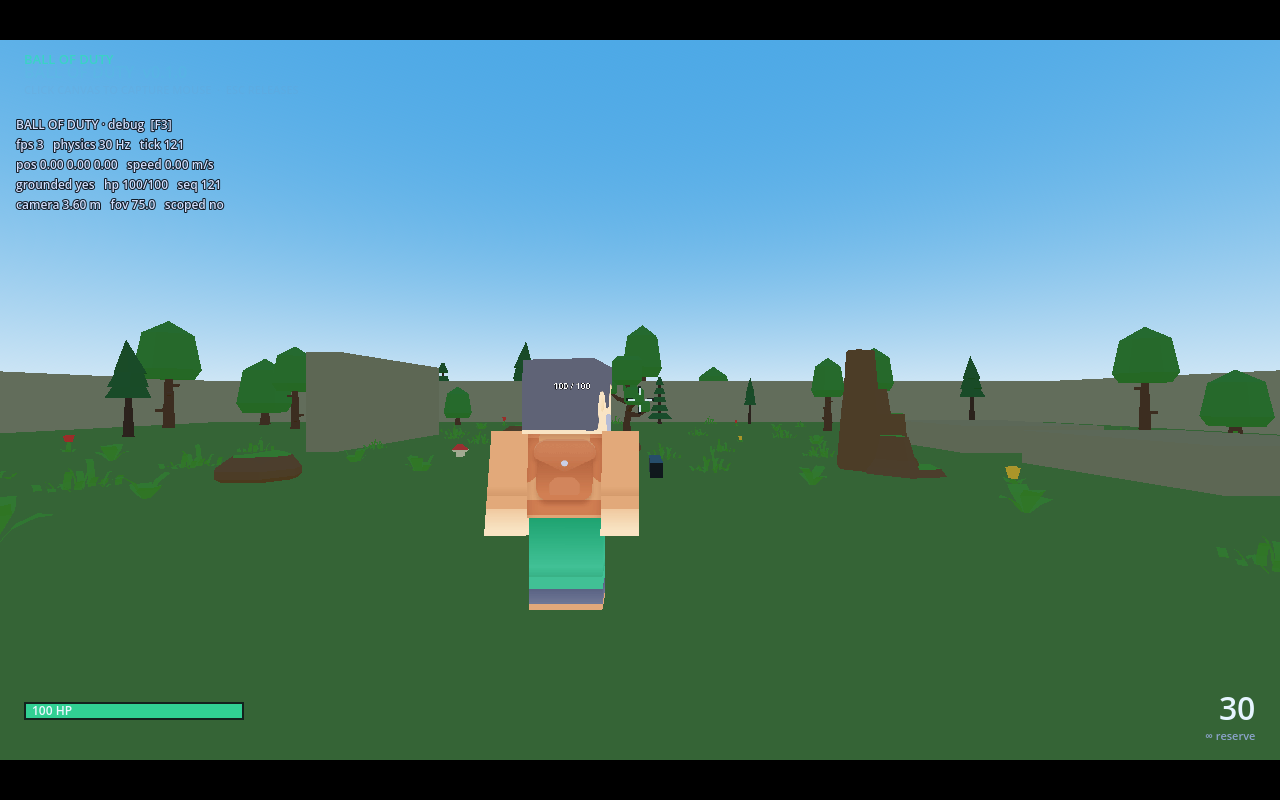
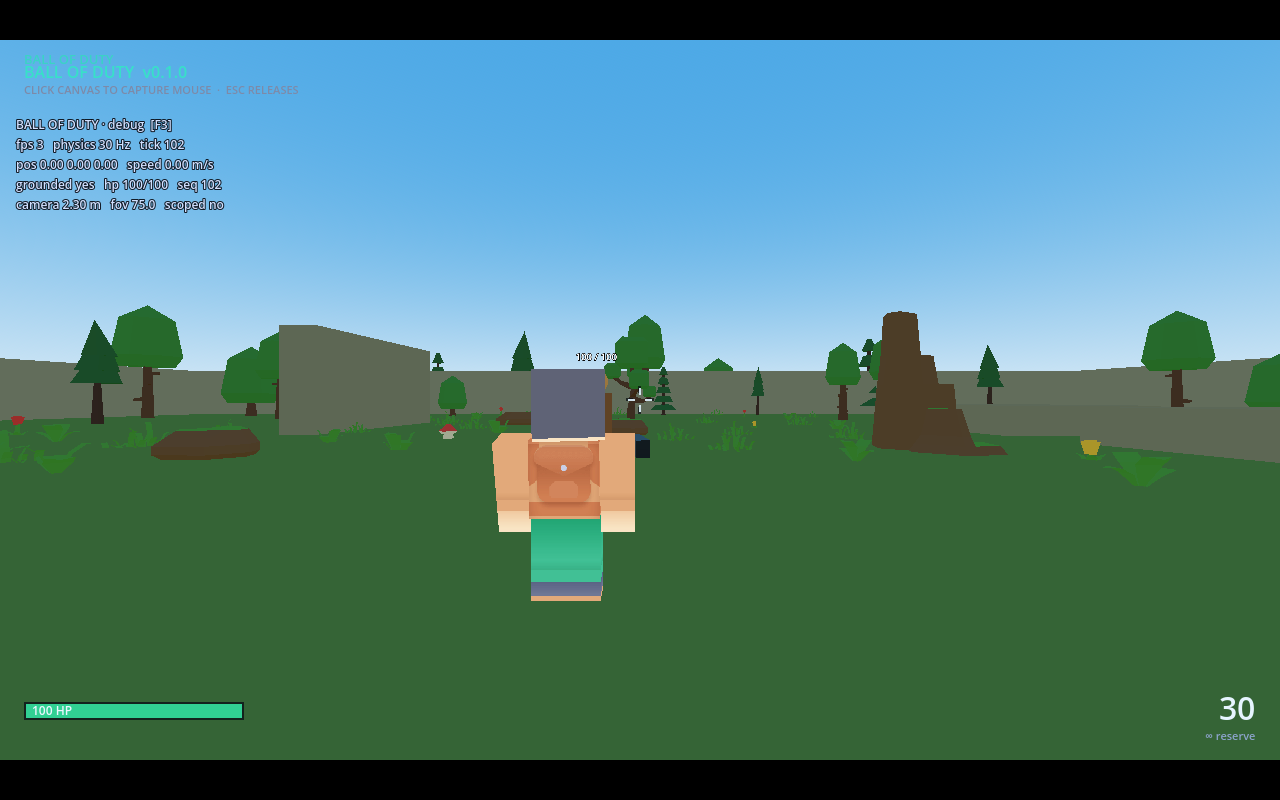
Feel pass: shoulder-mounted aim-pitched gun, backwards/air animation states, 0.82m character, stronger scope zoom

diff --git a/docs/BACKLOG.md b/docs/BACKLOG.md
@@ -19,6 +19,10 @@ Status: `todo` · `doing` · `done` · `deferred`
 | S8 | Character model | Replaced the capsule with Kenney Blocky `character-a`, 1.36 m, animated idle/walk/sprint | done | CP2 |
 | S9 | Log/stump collision | Logs and stumps now have solid box/cylinder colliders (were walk-through) | done | CP2 |
 | S10 | Tree/rock collider fit | Tree trunk radius reduced from 0.36× to 0.12× scale; low-rock height corrected so invisible collision no longer feels spherical | done | CP2 |
+| S11 | Gun attached to character | Gun/muzzle reparented from the player root to `Visual/GunMount` at the right shoulder; mount copies camera pitch (+recoil) so vertical aim moves the gun; yaw inherited from the body | done | CP3 |
+| S12 | Backwards/jump animation states | Backwards plays the walk cycle reversed and never sprints; airborne gets separate `air_move`/`air_idle` states with a procedural rise/fall lean (pack has no jump clip) | done | CP3 |
+| S13 | Character 40 % smaller | Capsule 1.36 m → **0.82 m**, hurtboxes/head/camera-shoulder scaled ×0.6; camera spring 3.6 m → **2.3 m** | done | CP3 |
+| S14 | Scope zoom stronger | Scope FOV 55 → **48** (75→48 = 27° of zoom vs 20° before, +35 %) | done | CP3 |
 
 ## Long term (record now, decide later)
 
@@ -30,13 +34,13 @@ Status: `todo` · `doing` · `done` · `deferred`
 | L4 | Larger map performance | Current map is 35 draw calls / 31k tris. A larger final map needs occlusion/LOD/fog decisions and a new budget measurement | todo |
 | L5 | Movement set | Add slide/dash/roll later only if the core loop needs it; do not add before netcode so prediction scope stays small | deferred |
 | L6 | Settings UI | Expose sensitivity, invert Y, scope scale, volume, quality in CP5; persistence already exists | todo |
-| L7 | Animation / stride | Character shrink makes stride more visible; add run/jump/fall states from replicated state flags | todo |
+| L7 | Animation / stride | Backwards-reversed + air-lean states landed (S12). Still needs a pack with real jump/back/strafe clips — candidates listed in the 2026-10-29 changelog entry | doing |
 | L8 | Server parity | Character scale, hurtboxes, camera-independent stats, jump values must come from the same resources on client and server | todo |
 | L9 | Browser matrix | Real Firefox/Safari, low-end laptop, 720p/60 target (CP5) | todo |
 | L10 | CI remote | GitHub/GitLab remote for the first green pipeline run | todo |
 | L11 | 3D terrain & mountains | Future map: heightfield/terrain with climbable mountains, surfaces that block bullets and create hiding spots. Area target ≥15× the current 60×60 m (~232×232 m). Needs chunked terrain, LOD, occlusion/visibility ranges, collision streaming and a new performance budget — the Minecraft-style rendering limit. Do not start before V1 netcode is stable. | deferred |
 | L12 | Character variants | Remote players need distinct Blocky Characters textures/colors; same animation rig. Add in CP4a roster work. | todo |
-| L13 | Weapon viewmodel polish | Gun is currently a simple mesh viewed end-on. Add hand-held pose, muzzle light, impact decals, damage numbers, richer kill feed before release. | todo |
+| L13 | Weapon viewmodel polish | Gun is shoulder-mounted and aim-pitched but still a plain box viewed butt-on. Add hand-held pose, muzzle light, impact decals, damage numbers, richer kill feed before release. | todo |
 | L14 | Player damage feedback | Damage vignette/health loss are wired but untestable until CP4c bots can shoot back. Validate then. | todo |
 
 ## Changelog
@@ -48,3 +52,14 @@ Status: `todo` · `doing` · `done` · `deferred`
   Minecraft-style chunk limits recorded as **L11**.
 - **2026-10-29 — CP3:** rifle/projectile/damage/HUD/audio/training dummies landed. Combat test covers
   20/20 headshots at 5/15/30 m. Weapon viewmodel and player damage feedback recorded as **L13/L14**.
+- **2026-10-29 — animation/feel pass:** gun shoulder-mounted + aim-pitched (S11); backwards-reversed
+  and air-lean states (S12); character ×0.6 → 0.82 m with 2.3 m camera (S13); scope FOV 48 (S14).
+  Animation-pack candidates for real jump/back/strafe clips: Kenney character hub
+  (https://kenney.nl/assets/tag:character), Animated Characters Survivors
+  (https://kenney.nl/assets/animated-characters-survivors), Quaternius Ultimate Animated Character Pack
+  (https://quaternius.com/packs/ultimatedanimatedcharacter.html), Quaternius Universal Animation Library
+  (https://quaternius.com/packs/universalanimationlibrary.html), KayKit Character Animations
+  (https://kaylousberg.itch.io/kaykit-character-animations), KayKit Adventurers
+  (https://kaylousberg.itch.io/kaykit-adventurers), Mixamo
+  (https://www.mixamo.com/), Quaternius pack on the Godot asset store
+  (https://store.godotengine.org/asset/quaternius/universal-animation-library/).
